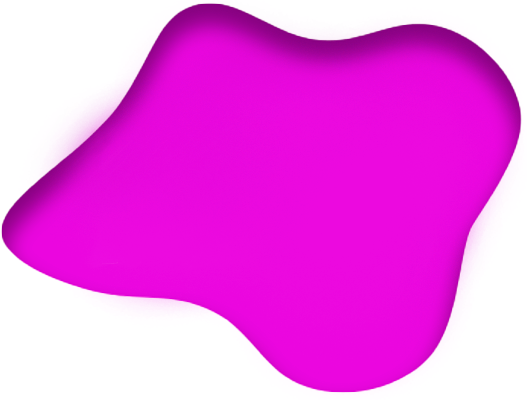
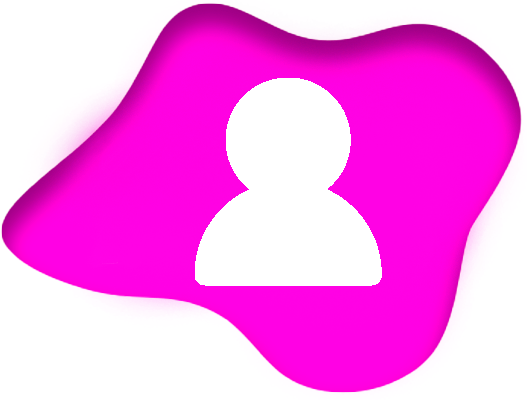
.

Changed region(s): [[0.0, 0.0, 1.0, 0.99], [0.0607, 0.66, 0.3643, 0.75]]

diff --git a/src/app/tela-inicial/tela-inicial.page.scss b/src/app/tela-inicial/tela-inicial.page.scss
@@ -10,21 +10,31 @@
   font-size: 50px;
 }
 
+ion-title{
+  right: 10px;
+  text-align: right;
+  letter-spacing: 2px;
+}
+
 ion-button{
   --border-radius: 100px;
   --background-color: var(--ion-color-primary-contrast); 
   height: 90px;
   margin: 10px;
+  letter-spacing: 10px;
 }
 
-//ion-container{
-  //display: flex;
-  //flex-direction: column;
-  //justify-content: space-between;
-  //position: fixed;
-  //height: 100%;
-//}
+ion-container{
+  display: flex;
+  flex-direction: column;
+  justify-content: space-between;
+  position: fixed;
+  height: 100%;
+}
 
+ion-list {
+  padding-top: 50px;
+}
 
 ion-list .button_navegacao{
   display: flex;
@@ -48,11 +58,20 @@ ion-img {
 
 #homem_pag_inicial {
   position: absolute;
-  top: 10%;
+  left: 0px;
+  top: 0px;
   background: transparent;
-  width: 325px;
   z-index: 1;
+  width: 110px;
+}
 
+#mulher_pag_inicial{
+  position: absolute;
+  right: 30px;
+  top: 110px;
+  background: transparent;
+  z-index: 3;
+  width: 110px;
 }
 
 #manual{
@@ -61,9 +80,18 @@ ion-img {
 }
 
 #cuide{
+  background-size: cover;
   z-index: 2;
 }
 
 #converse{
-  z-index: 1;
+  background-size: cover;
+  z-index: 4;
+}
+
+#template{
+  position: absolute;
+  bottom: 44px;;
+  left: 0px;
+  width: 414px;
 }

diff --git a/src/app/tela-inicial/tela-inicial.page.html b/src/app/tela-inicial/tela-inicial.page.html
@@ -8,13 +8,14 @@
     </ion-title>
     <ion-buttons slot="start">
       <ion-button>
-        <ion-img slot="icon-only" src="assets/images/usuario.png" class="no-shadow"></ion-img>
+        <ion-img slot="icon-only" src="assets/images/usuario.png"></ion-img>
       </ion-button>
     </ion-buttons>
   </ion-toolbar>
 
   <ion-list class="navegacao">
-    <img ID="homem_pag_inicial" src="assets\images\homem_pag_inicial.png" alt="">
+    <img id="homem_pag_inicial" src="assets\images\homem_pag_inicial.png" alt="">
+    <img id="mulher_pag_inicial" src="assets\images\mulher_pag_inicial.png" alt="">
 
     <ion-button id="manual" class="button_navegacao">MANUAL</ion-button>
 
@@ -22,4 +23,6 @@
 
     <ion-button id="converse" class="button_navegacao">CONVERSE</ion-button>
   </ion-list>
+
+  <ion-img id="template" src="assets\images\template.png"></ion-img>
 </ion-content>

diff --git a/src/app/manual/manual.module.ts b/src/app/manual/manual.module.ts
@@ -2,10 +2,10 @@ import { IonicModule } from '@ionic/angular';
 import { NgModule } from '@angular/core';
 import { CommonModule } from '@angular/common';
 import { FormsModule } from '@angular/forms';
-import { Tab1Page } from './tab1.page';
+import { Tab1Page } from './manual.page';
 import { ExploreContainerComponentModule } from '../explore-container/explore-container.module';
 
-import { Tab1PageRoutingModule } from './tab1-routing.module';
+import { Tab1PageRoutingModule } from './manual-routing.module';
 
 @NgModule({
   imports: [

diff --git a/src/app/tabs/tabs-routing.module.ts b/src/app/tabs/tabs-routing.module.ts
@@ -9,7 +9,7 @@ const routes: Routes = [
     children: [
       {
         path: 'tab1',
-        loadChildren: () => import('../tab1/tab1.module').then(m => m.Tab1PageModule)
+        loadChildren: () => import('../manual/manual.module').then(m => m.Tab1PageModule)
       },
       {
         path: 'tab2',

diff --git a/src/app/manual/manual.page.spec.ts b/src/app/manual/manual.page.spec.ts
@@ -3,7 +3,7 @@ import { IonicModule } from '@ionic/angular';
 
 import { ExploreContainerComponentModule } from '../explore-container/explore-container.module';
 
-import { Tab1Page } from './tab1.page';
+import { Tab1Page } from './manual.page';
 
 describe('Tab1Page', () => {
   let component: Tab1Page;

diff --git a/src/app/manual/manual-routing.module.ts b/src/app/manual/manual-routing.module.ts
@@ -1,6 +1,6 @@
 import { NgModule } from '@angular/core';
 import { RouterModule, Routes } from '@angular/router';
-import { Tab1Page } from './tab1.page';
+import { Tab1Page } from './manual.page';
 
 const routes: Routes = [
   {
